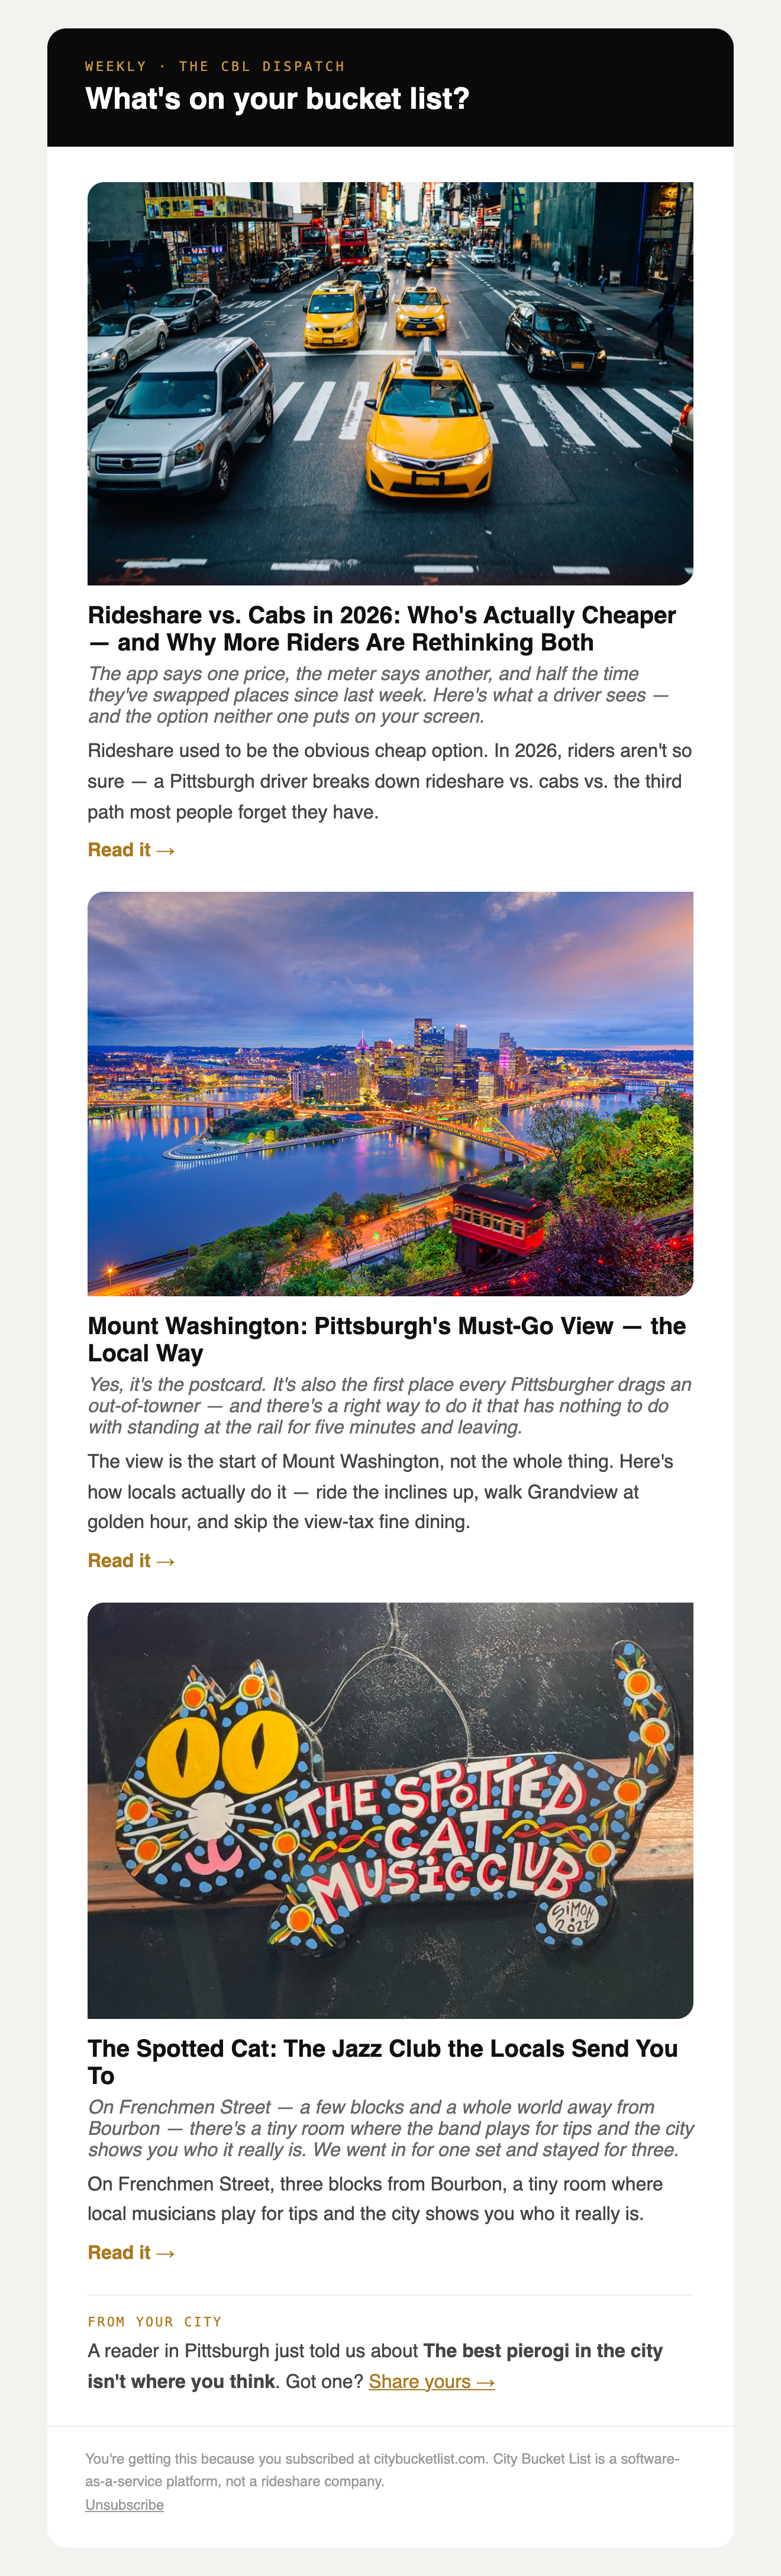
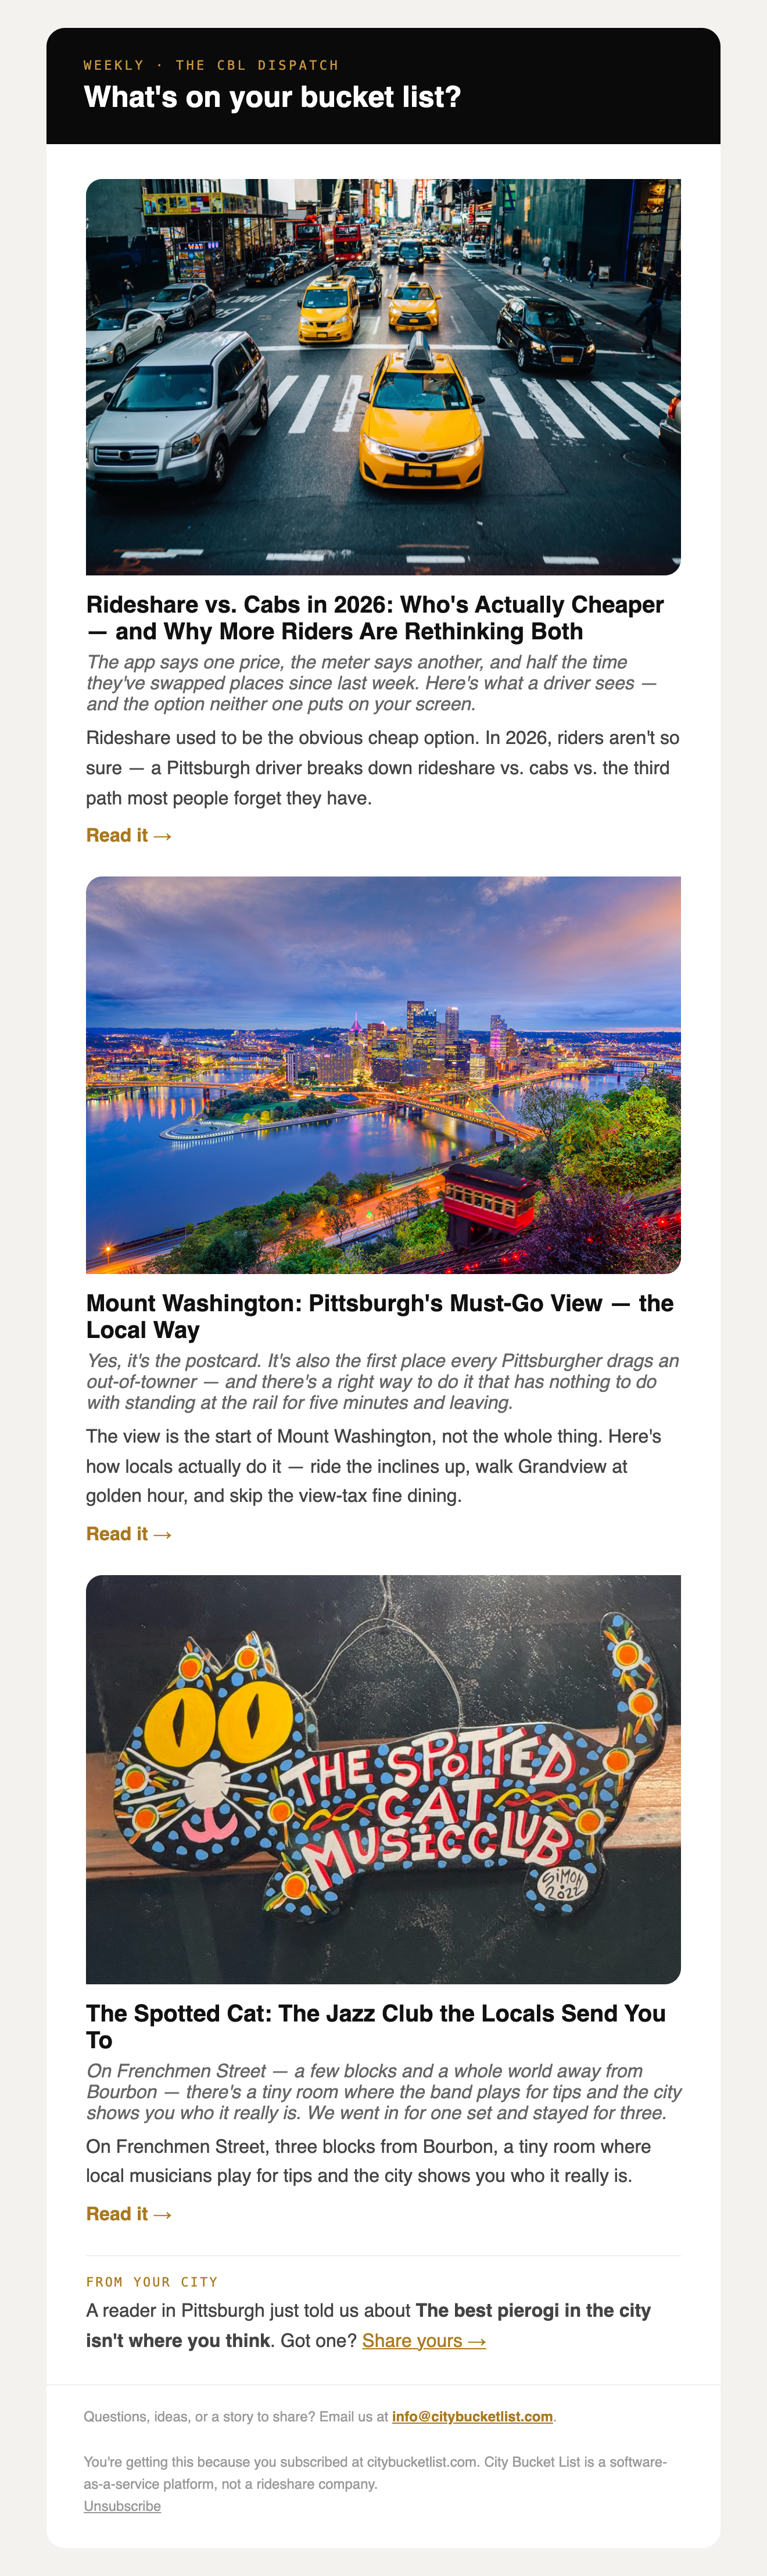
blog: add [email redacted] to newsletter footer (sender + preview)

Changed region(s): [[0.0932, 0.0312, 0.9008, 0.9679]]

diff --git a/public/blog/dispatch-preview.html b/public/blog/dispatch-preview.html
@@ -1,1 +1,1 @@
-<!doctype html><html><body style='margin:0;background:#f4f2ee;padding:24px 0;font-family:-apple-system,Segoe UI,Roboto,Helvetica,Arial,sans-serif'><table role='presentation' width='100%' cellpadding='0' cellspacing='0'><tr><td align='center'><table role='presentation' width='580' cellpadding='0' cellspacing='0' style='max-width:580px;background:#fff;border-radius:16px;overflow:hidden'><tr><td style='background:#0A0A0A;padding:26px 32px'><div style='font-family:monospace;letter-spacing:.2em;text-transform:uppercase;color:#C99742;font-size:11px'>Weekly &middot; The CBL Dispatch</div><div style='color:#fff;font-size:25px;font-weight:800;margin-top:6px'>What&apos;s on your bucket list?</div></td></tr><tr><td style='padding:28px 32px 6px'><table role='presentation' width='100%'><tr><td style='padding:0 0 24px'><a href='https://citybucketlist.com/blog/rideshare-vs-cabs-2026'><img src='https://cbl-homescreen-preview.netlify.app/blog/rideshare-vs-cabs/cabs-street.jpg' width='516' style='width:100%;max-width:516px;border-radius:14px 0 14px 0;display:block' alt=''></a><div style='font-size:20px;font-weight:800;margin:14px 0 6px'><a href='https://citybucketlist.com/blog/rideshare-vs-cabs-2026' style='color:#111;text-decoration:none'>Rideshare vs. Cabs in 2026: Who's Actually Cheaper — and Why More Riders Are Rethinking Both</a></div><div style='color:#666;font-style:italic;margin-bottom:8px'>The app says one price, the meter says another, and half the time they've swapped places since last week. Here's what a driver sees — and the option neither one puts on your screen.</div><div style='color:#444;line-height:1.6;margin-bottom:10px'>Rideshare used to be the obvious cheap option. In 2026, riders aren't so sure — a Pittsburgh driver breaks down rideshare vs. cabs vs. the third path most people forget they have.</div><a href='https://citybucketlist.com/blog/rideshare-vs-cabs-2026' style='color:#A9791F;font-weight:700;text-decoration:none'>Read it &rarr;</a></td></tr><tr><td style='padding:0 0 24px'><a href='https://citybucketlist.com/blog/mount-washington-pittsburgh'><img src='https://cbl-homescreen-preview.netlify.app/blog/mount-washington/pgh-dusk.jpg' width='516' style='width:100%;max-width:516px;border-radius:14px 0 14px 0;display:block' alt=''></a><div style='font-size:20px;font-weight:800;margin:14px 0 6px'><a href='https://citybucketlist.com/blog/mount-washington-pittsburgh' style='color:#111;text-decoration:none'>Mount Washington: Pittsburgh's Must-Go View — the Local Way</a></div><div style='color:#666;font-style:italic;margin-bottom:8px'>Yes, it's the postcard. It's also the first place every Pittsburgher drags an out-of-towner — and there's a right way to do it that has nothing to do with standing at the rail for five minutes and leaving.</div><div style='color:#444;line-height:1.6;margin-bottom:10px'>The view is the start of Mount Washington, not the whole thing. Here's how locals actually do it — ride the inclines up, walk Grandview at golden hour, and skip the view-tax fine dining.</div><a href='https://citybucketlist.com/blog/mount-washington-pittsburgh' style='color:#A9791F;font-weight:700;text-decoration:none'>Read it &rarr;</a></td></tr><tr><td style='padding:0 0 24px'><a href='https://citybucketlist.com/blog/spotted-cat-new-orleans'><img src='https://cbl-homescreen-preview.netlify.app/blog/spotted-cat/sign-crop.jpg' width='516' style='width:100%;max-width:516px;border-radius:14px 0 14px 0;display:block' alt=''></a><div style='font-size:20px;font-weight:800;margin:14px 0 6px'><a href='https://citybucketlist.com/blog/spotted-cat-new-orleans' style='color:#111;text-decoration:none'>The Spotted Cat: The Jazz Club the Locals Send You To</a></div><div style='color:#666;font-style:italic;margin-bottom:8px'>On Frenchmen Street — a few blocks and a whole world away from Bourbon — there's a tiny room where the band plays for tips and the city shows you who it really is. We went in for one set and stayed for three.</div><div style='color:#444;line-height:1.6;margin-bottom:10px'>On Frenchmen Street, three blocks from Bourbon, a tiny room where local musicians play for tips and the city shows you who it really is.</div><a href='https://citybucketlist.com/blog/spotted-cat-new-orleans' style='color:#A9791F;font-weight:700;text-decoration:none'>Read it &rarr;</a></td></tr><tr><td style='padding:16px 0;border-top:1px solid #eee'><div style='font-family:monospace;font-size:11px;letter-spacing:.14em;text-transform:uppercase;color:#A9791F;margin-bottom:6px'>From your city</div><div style='color:#444;line-height:1.6'>A reader in Pittsburgh just told us about <b>The best pierogi in the city isn't where you think</b>. Got one? <a href='https://citybucketlist.com/blog' style='color:#A9791F'>Share yours &rarr;</a></div></td></tr></table></td></tr><tr><td style='padding:18px 32px 26px;border-top:1px solid #eee;color:#999;font-size:12px;line-height:1.6'>You&apos;re getting this because you subscribed at citybucketlist.com. City Bucket List is a software-as-a-service platform, not a rideshare company.<br><a href='https://jgbaqzgkdqqvxmqytgsx.supabase.co/functions/v1/unsubscribe?token=preview' style='color:#999'>Unsubscribe</a></td></tr></table></td></tr></table></body></html>
+<!doctype html><html><body style='margin:0;background:#f4f2ee;padding:24px 0;font-family:-apple-system,Segoe UI,Roboto,Helvetica,Arial,sans-serif'><table role='presentation' width='100%' cellpadding='0' cellspacing='0'><tr><td align='center'><table role='presentation' width='580' cellpadding='0' cellspacing='0' style='max-width:580px;background:#fff;border-radius:16px;overflow:hidden'><tr><td style='background:#0A0A0A;padding:26px 32px'><div style='font-family:monospace;letter-spacing:.2em;text-transform:uppercase;color:#C99742;font-size:11px'>Weekly &middot; The CBL Dispatch</div><div style='color:#fff;font-size:25px;font-weight:800;margin-top:6px'>What&apos;s on your bucket list?</div></td></tr><tr><td style='padding:28px 32px 6px'><table role='presentation' width='100%'><tr><td style='padding:0 0 24px'><a href='https://citybucketlist.com/blog/rideshare-vs-cabs-2026'><img src='https://cbl-homescreen-preview.netlify.app/blog/rideshare-vs-cabs/cabs-street.jpg' width='516' style='width:100%;max-width:516px;border-radius:14px 0 14px 0;display:block' alt=''></a><div style='font-size:20px;font-weight:800;margin:14px 0 6px'><a href='https://citybucketlist.com/blog/rideshare-vs-cabs-2026' style='color:#111;text-decoration:none'>Rideshare vs. Cabs in 2026: Who's Actually Cheaper — and Why More Riders Are Rethinking Both</a></div><div style='color:#666;font-style:italic;margin-bottom:8px'>The app says one price, the meter says another, and half the time they've swapped places since last week. Here's what a driver sees — and the option neither one puts on your screen.</div><div style='color:#444;line-height:1.6;margin-bottom:10px'>Rideshare used to be the obvious cheap option. In 2026, riders aren't so sure — a Pittsburgh driver breaks down rideshare vs. cabs vs. the third path most people forget they have.</div><a href='https://citybucketlist.com/blog/rideshare-vs-cabs-2026' style='color:#A9791F;font-weight:700;text-decoration:none'>Read it &rarr;</a></td></tr><tr><td style='padding:0 0 24px'><a href='https://citybucketlist.com/blog/mount-washington-pittsburgh'><img src='https://cbl-homescreen-preview.netlify.app/blog/mount-washington/pgh-dusk.jpg' width='516' style='width:100%;max-width:516px;border-radius:14px 0 14px 0;display:block' alt=''></a><div style='font-size:20px;font-weight:800;margin:14px 0 6px'><a href='https://citybucketlist.com/blog/mount-washington-pittsburgh' style='color:#111;text-decoration:none'>Mount Washington: Pittsburgh's Must-Go View — the Local Way</a></div><div style='color:#666;font-style:italic;margin-bottom:8px'>Yes, it's the postcard. It's also the first place every Pittsburgher drags an out-of-towner — and there's a right way to do it that has nothing to do with standing at the rail for five minutes and leaving.</div><div style='color:#444;line-height:1.6;margin-bottom:10px'>The view is the start of Mount Washington, not the whole thing. Here's how locals actually do it — ride the inclines up, walk Grandview at golden hour, and skip the view-tax fine dining.</div><a href='https://citybucketlist.com/blog/mount-washington-pittsburgh' style='color:#A9791F;font-weight:700;text-decoration:none'>Read it &rarr;</a></td></tr><tr><td style='padding:0 0 24px'><a href='https://citybucketlist.com/blog/spotted-cat-new-orleans'><img src='https://cbl-homescreen-preview.netlify.app/blog/spotted-cat/sign-crop.jpg' width='516' style='width:100%;max-width:516px;border-radius:14px 0 14px 0;display:block' alt=''></a><div style='font-size:20px;font-weight:800;margin:14px 0 6px'><a href='https://citybucketlist.com/blog/spotted-cat-new-orleans' style='color:#111;text-decoration:none'>The Spotted Cat: The Jazz Club the Locals Send You To</a></div><div style='color:#666;font-style:italic;margin-bottom:8px'>On Frenchmen Street — a few blocks and a whole world away from Bourbon — there's a tiny room where the band plays for tips and the city shows you who it really is. We went in for one set and stayed for three.</div><div style='color:#444;line-height:1.6;margin-bottom:10px'>On Frenchmen Street, three blocks from Bourbon, a tiny room where local musicians play for tips and the city shows you who it really is.</div><a href='https://citybucketlist.com/blog/spotted-cat-new-orleans' style='color:#A9791F;font-weight:700;text-decoration:none'>Read it &rarr;</a></td></tr><tr><td style='padding:16px 0;border-top:1px solid #eee'><div style='font-family:monospace;font-size:11px;letter-spacing:.14em;text-transform:uppercase;color:#A9791F;margin-bottom:6px'>From your city</div><div style='color:#444;line-height:1.6'>A reader in Pittsburgh just told us about <b>The best pierogi in the city isn't where you think</b>. Got one? <a href='https://citybucketlist.com/blog' style='color:#A9791F'>Share yours &rarr;</a></div></td></tr></table></td></tr><tr><td style='padding:18px 32px 26px;border-top:1px solid #eee;color:#999;font-size:12px;line-height:1.6'>Questions, ideas, or a story to share? Email us at <a href='mailto:[email redacted]' style='color:#A9791F;font-weight:700'>[email redacted]</a>.<br><br>You&apos;re getting this because you subscribed at citybucketlist.com. City Bucket List is a software-as-a-service platform, not a rideshare company.<br><a href='https://jgbaqzgkdqqvxmqytgsx.supabase.co/functions/v1/unsubscribe?token=preview' style='color:#999'>Unsubscribe</a></td></tr></table></td></tr></table></body></html>